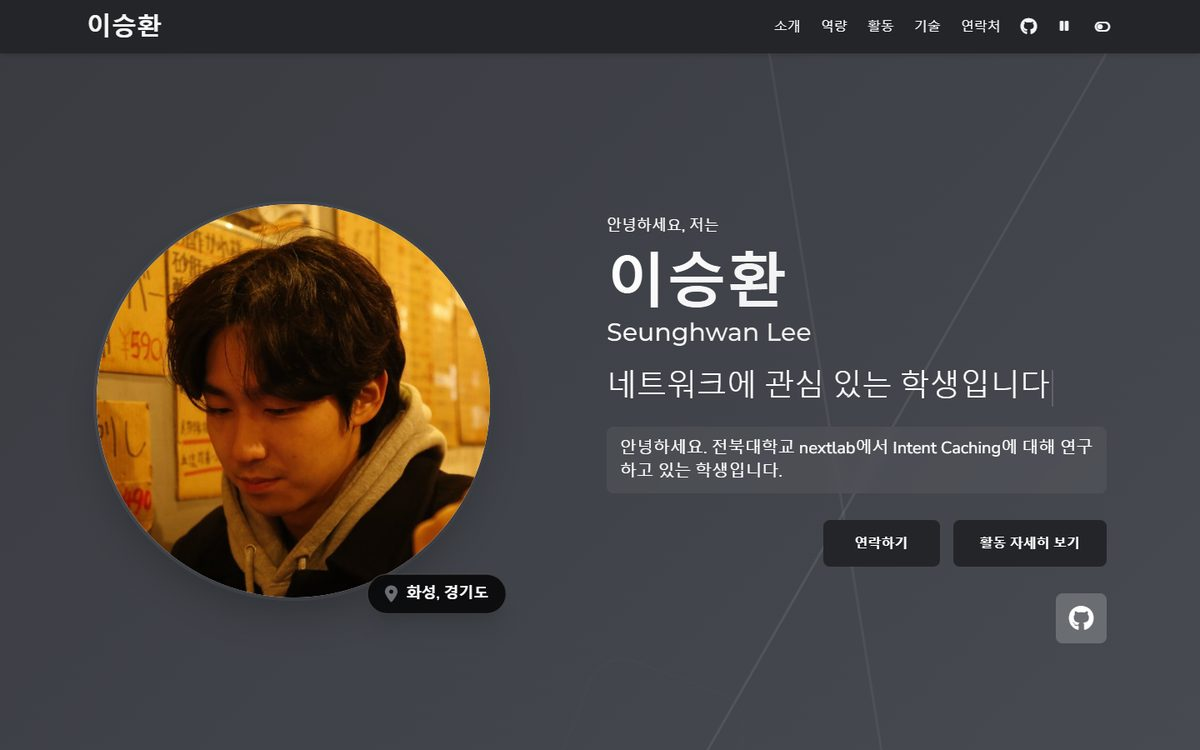
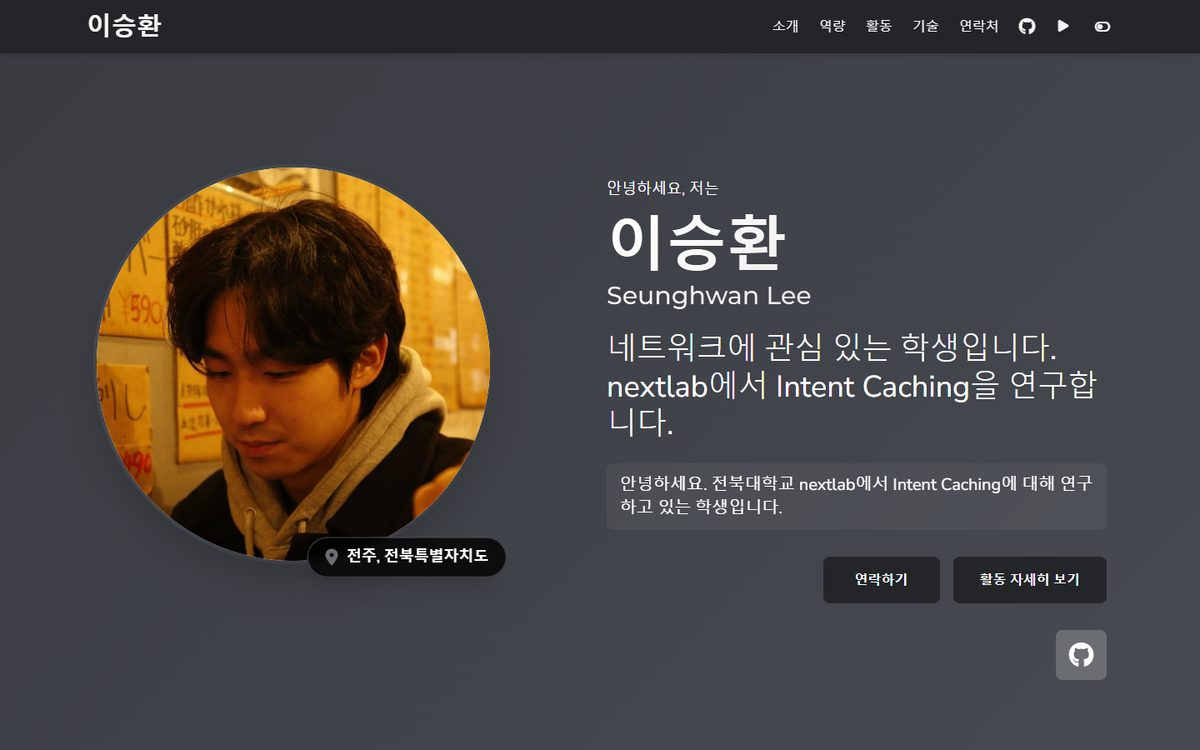
replace activity screenshot with current site

diff --git a/site/content/ko/activities/personal-website.md b/site/content/ko/activities/personal-website.md
@@ -27,7 +27,7 @@ description: Hugo 테마로 나를 소개하는 사이트를 만들고, main 브
 
 ![폭 1440px 화면에서 본 이 사이트의 첫 화면. 왼쪽에 원형 프로필 사진, 오른쪽에 이름 이승환과 소개 문장, 연락하기·활동 자세히 보기 버튼이 있다.](../../images/activity/site-home-1440.jpg)
 
-*완성한 사이트의 첫 화면 (Chrome, 폭 1440px, 2026-10-20 캡처)*
+*완성한 사이트의 첫 화면 (Chrome, 폭 1440px, 2026-11-01 캡처)*
 
 - **공개 사이트**: <https://hyangnamdexter.github.io/Introducemyself/>. 지금 보고 있는 이 사이트입니다.
 - **저장소**: <https://github.com/HyangnamDexter/Introducemyself>. 설정·템플릿·콘텐츠와 커밋 이력이 있습니다.
